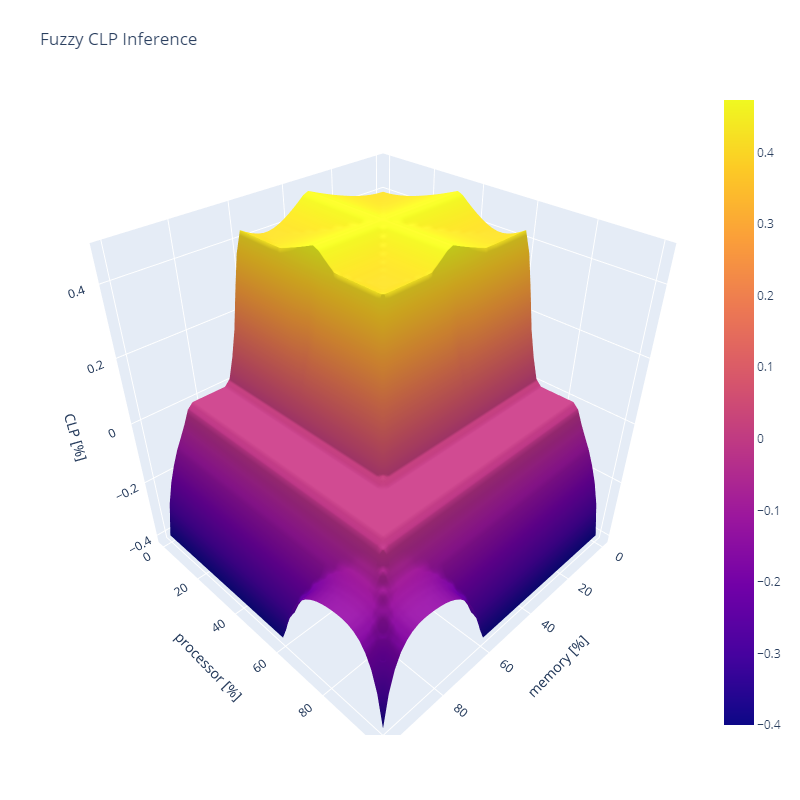
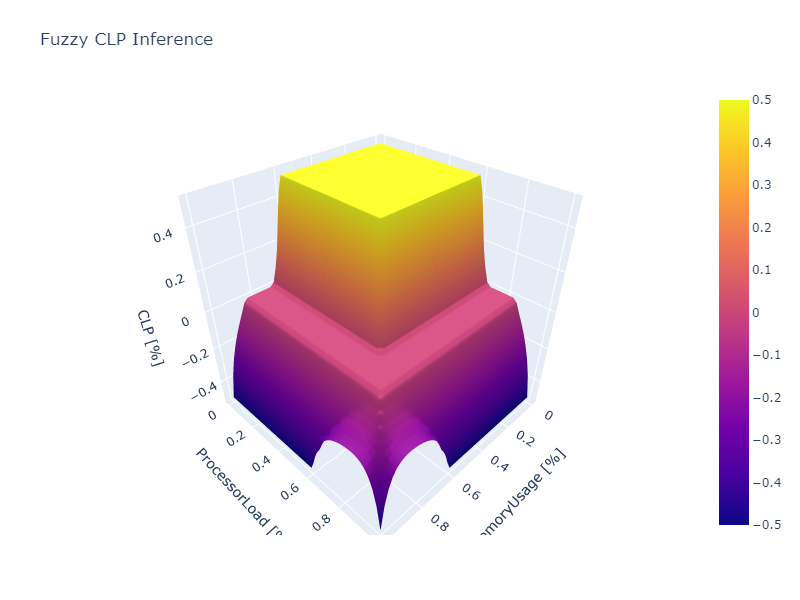
other graphs stuff

diff --git a/fuzzy/visualization/visualization.py b/fuzzy/visualization/visualization.py
@@ -35,18 +35,24 @@ def plot_memory_processor_clp(FS, save_path=None):
     # Create a grid of values for Temperature and Frequency
     load_values = np.linspace(0, 1, 50)
     Througthput_values = np.linspace(0, 1, 50)
+    MemoryUsage = np.linspace(0, 1, 50)
+    ProcessorLoad = np.linspace(0, 1, 50)
 
     # Create meshgrid for plotting
-    M, P = np.meshgrid(load_values, Througthput_values)
+    #M, P = np.meshgrid(load_values, Througthput_values)
+    #CLP = np.zeros_like(M)
+
+    # Create meshgrid for plotting
+    M, P = np.meshgrid(MemoryUsage, ProcessorLoad)
     CLP = np.zeros_like(M)
 
-    # Set Latency as a constant value
-    #FS.set_variable("Latency", 20)
+    #Set Latency as a constant value
+    FS.set_variable("Latency", 0.5)
 
     for i in tqdm(range(M.shape[0])):
         for j in range(M.shape[1]):
-            FS.set_variable("SystemLoad", M[i, j])
-            FS.set_variable("Latency", P[i, j])
+            FS.set_variable("MemoryUsage", M[i, j])
+            FS.set_variable("ProcessorLoad", P[i, j])
 
             CLP[i, j] = FS.inference()["CLP"]
 
@@ -55,8 +61,8 @@ def plot_memory_processor_clp(FS, save_path=None):
                       width=800, height=600,
                       margin=dict(l=65, r=50, b=65, t=90)
                       )
-    fig.update_scenes(xaxis_title_text='SystemLoad [%]',
-                      yaxis_title_text='Latency [%]',
+    fig.update_scenes(xaxis_title_text='MemoryUsage [%]',
+                      yaxis_title_text='ProcessorLoad [%]',
                       zaxis_title_text='CLP [%]')
 
     if save_path is not None:
